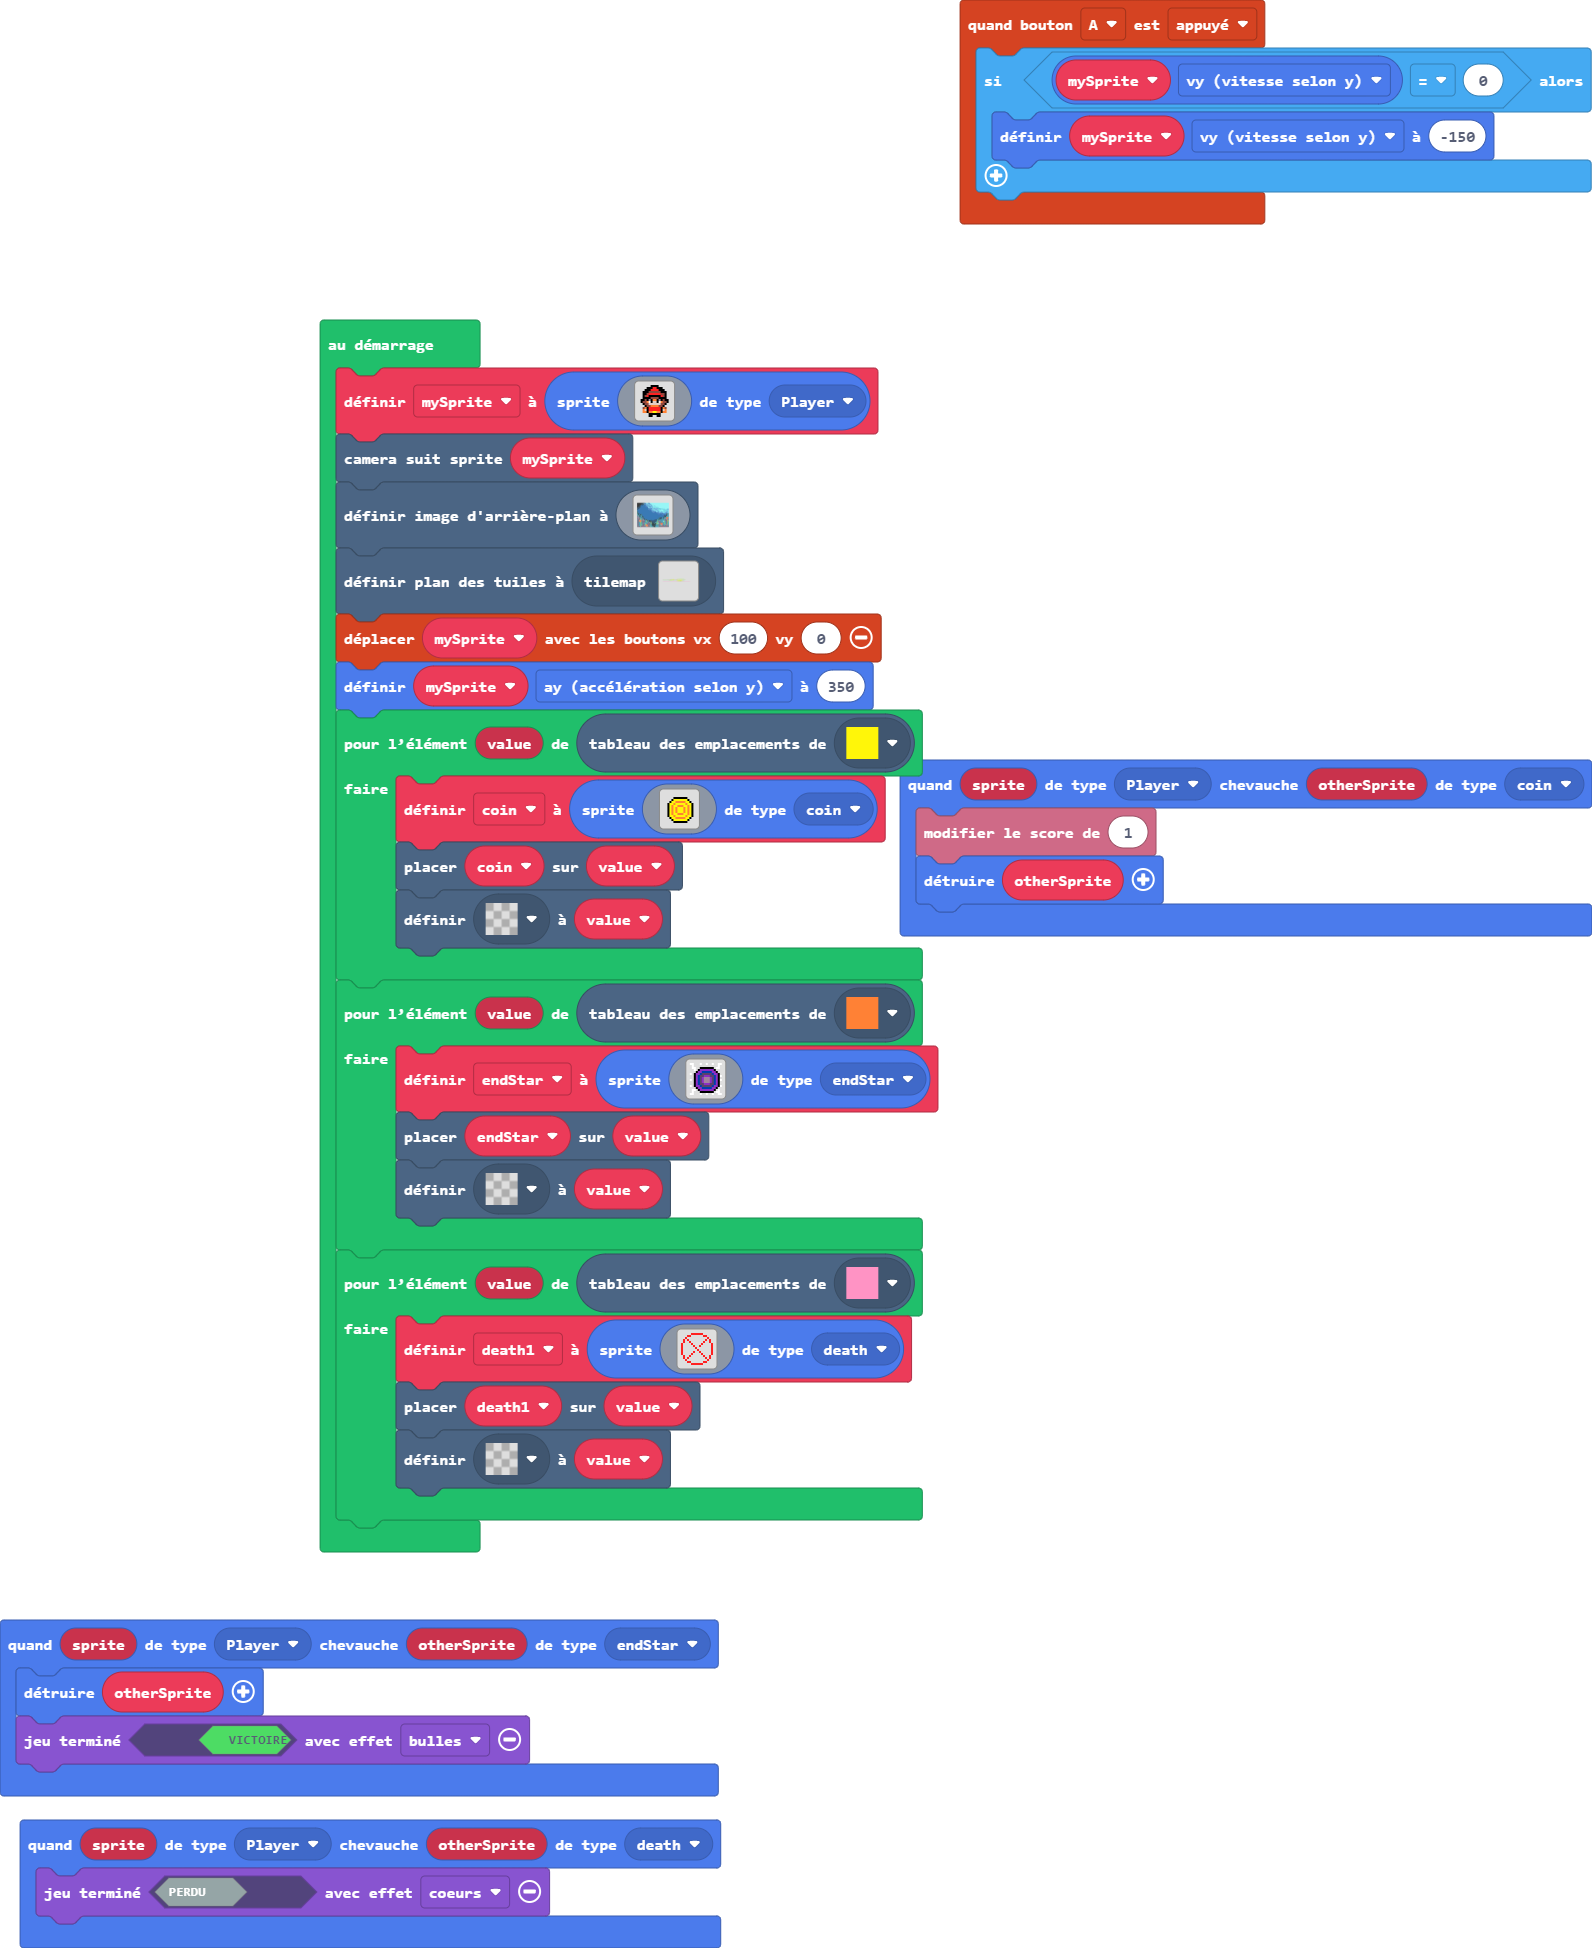
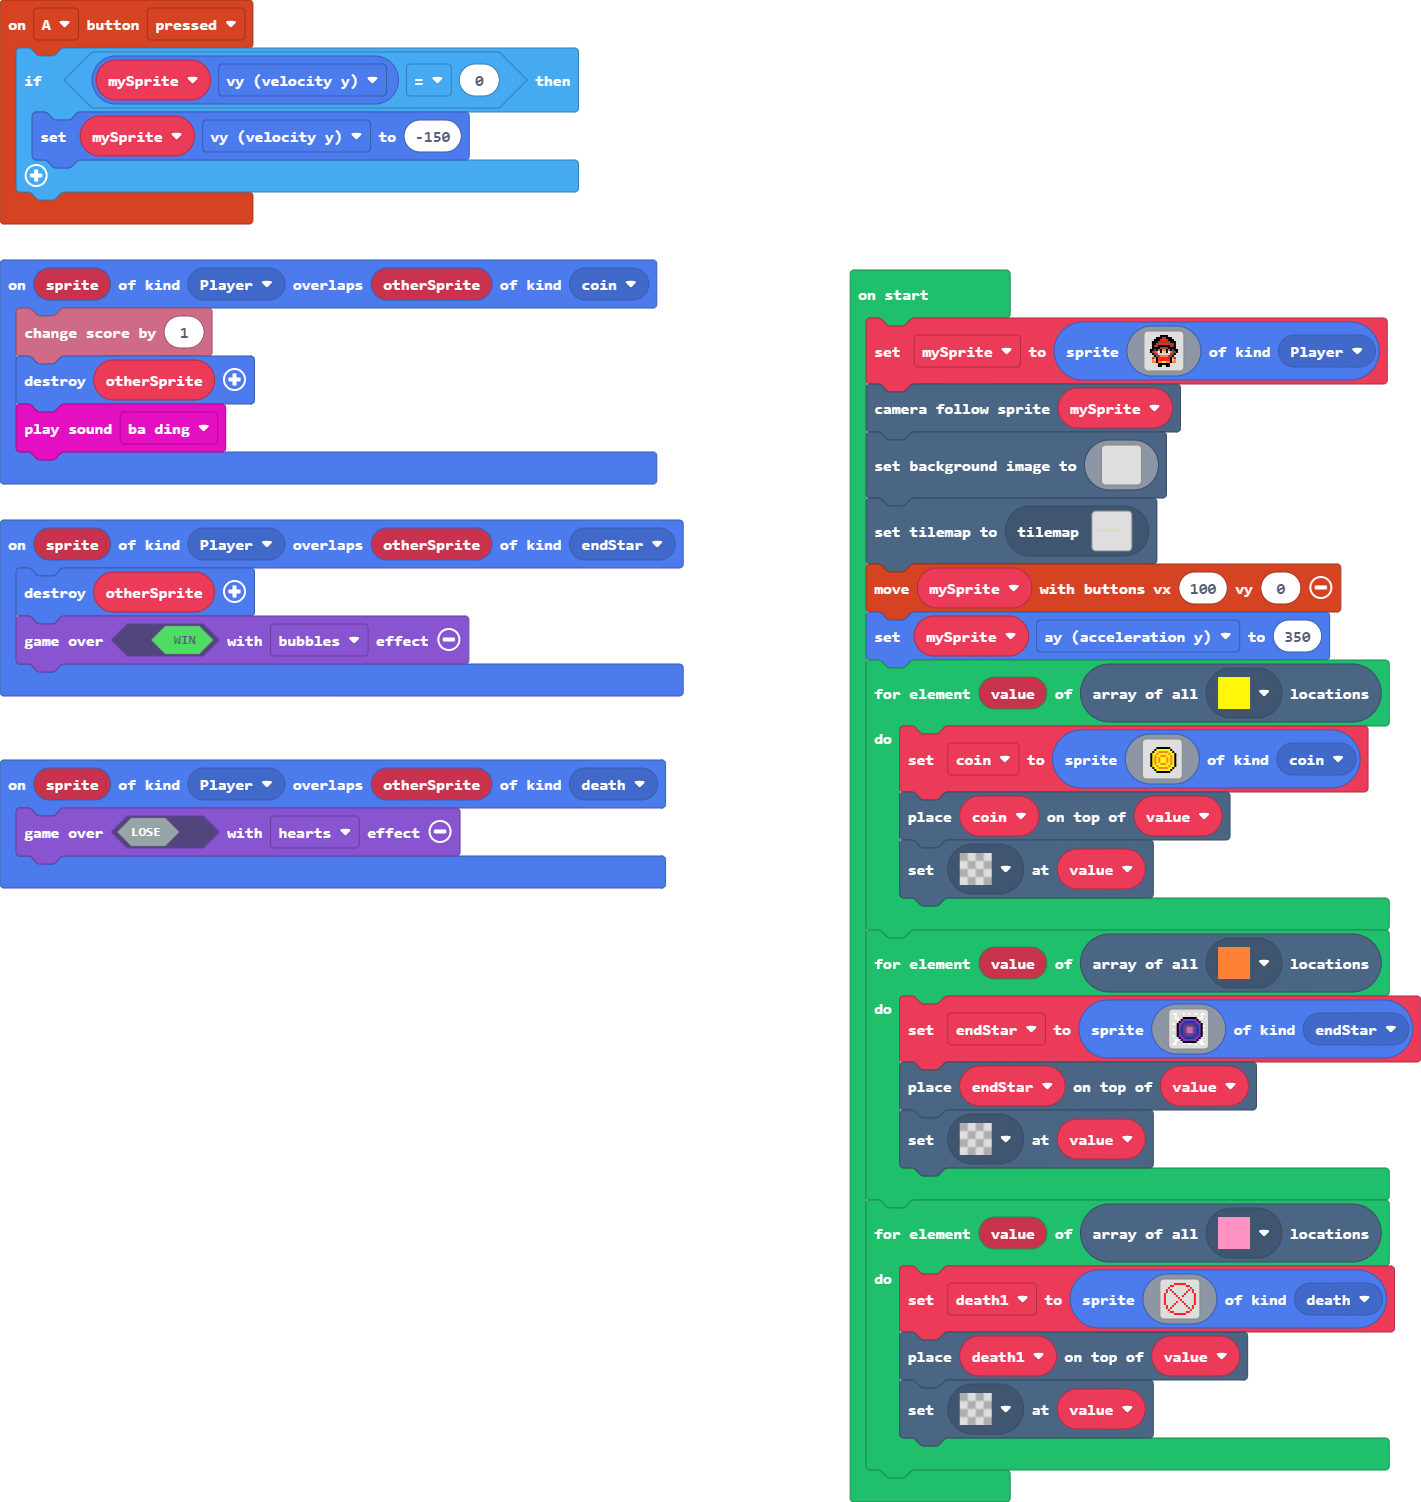
Update pxt.json, main.blocks, main.ts, tilemap.g.ts

diff --git a/main.ts b/main.ts
@@ -15,6 +15,7 @@ sprites.onOverlap(SpriteKind.Player, SpriteKind.endStar, function (sprite, other
 sprites.onOverlap(SpriteKind.Player, SpriteKind.coin, function (sprite, otherSprite) {
     info.changeScoreBy(1)
     otherSprite.destroy()
+    music.baDing.play()
 })
 sprites.onOverlap(SpriteKind.Player, SpriteKind.death, function (sprite, otherSprite) {
     game.over(false, effects.hearts)
@@ -43,126 +44,26 @@ mySprite = sprites.create(img`
     `, SpriteKind.Player)
 scene.cameraFollowSprite(mySprite)
 scene.setBackgroundImage(img`
[36 lines of base64/hex data omitted]
-    6888888888888888888888888888888888888888888888888888888888888888898888888898888999998888999999999998888999999998899999999999999999999999999988888888888888888888
-    6888888888888888888888888888888888888888888888888888888888888888888888888888988889999988888899999999988888999999998899999999999999999999999999999999999999999999
-    6688888888888888888888888888888888888888888888888888888888888888888888888888899888889999998888999999999988888999999998899999999999999999999999999999999999999999
[81 lines of base64/hex data omitted]
+    ...............................................................................................................................................................................................................................................................
+    ...............................................................................................................................................................................................................................................................
+    ...............................................................................................................................................................................................................................................................
+    ...............................................................................................................................................................................................................................................................
+    ...............................................................................................................................................................................................................................................................
+    ...............................................................................................................................................................................................................................................................
+    ...............................................................................................................................................................................................................................................................
+    ...............................................................................................................................................................................................................................................................
+    ...............................................................................................................................................................................................................................................................
+    ...............................................................................................................................................................................................................................................................
+    ...............................................................................................................................................................................................................................................................
+    ...............................................................................................................................................................................................................................................................
+    ...............................................................................................................................................................................................................................................................
+    ...............................................................................................................................................................................................................................................................
+    ...............................................................................................................................................................................................................................................................
+    ...............................................................................................................................................................................................................................................................
+    ...............................................................................................................................................................................................................................................................
+    ...............................................................................................................................................................................................................................................................
+    ...............................................................................................................................................................................................................................................................
+    ...............................................................................................................................................................................................................................................................
     `)
 tiles.setCurrentTilemap(tilemap`niveau1`)
 controller.moveSprite(mySprite, 100, 0)

diff --git a/tilemap.g.ts b/tilemap.g.ts
@@ -1,4 +1,4 @@
-// Code généré automatiquement. Ne pas modifier.
+// Auto-generated code. Do not edit.
 namespace myTiles {
     //% fixedInstance jres blockIdentity=images._tile
     export const transparency16 = image.ofBuffer(hex``);
@@ -117,4 +117,4 @@ namespace myTiles {
     })
 
 }
-// Code généré automatiquement. Ne pas modifier.
+// Auto-generated code. Do not edit.
